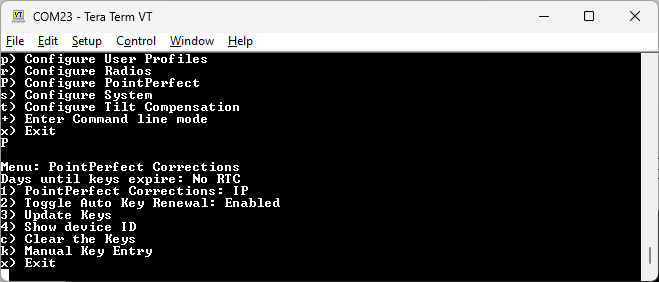
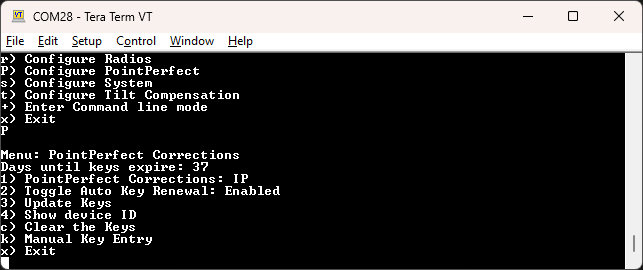
Docs update

Changed region(s): [[0.0, 0.0, 1.0, 1.0], [0.9953, 0.9778, 1.0, 1.0]]

diff --git a/docs/menu_system.md b/docs/menu_system.md
@@ -1,22 +1,99 @@
 # System Menu
 
-Surveyor: ![Feature Supported](img/Icons/GreenDot.png) / Express: ![Feature Supported](img/Icons/GreenDot.png) / Express Plus: ![Feature Supported](img/Icons/GreenDot.png) / Facet: ![Feature Supported](img/Icons/GreenDot.png) / Facet L-Band: ![Feature Supported](img/Icons/GreenDot.png) / Reference Station: ![Feature Supported](img/Icons/GreenDot.png)
+Torch: ![Feature Supported](img/Icons/GreenDot.png) 
+
+![System Menu accessed over serial](<img/Terminal/SparkFun RTK Everywhere - System Menu.png>)
+
+*System Menu accessed over serial*
+
+The System Menu shows a variety of system information including a full system check to verify what is and what is not online. For example, if an SD card is detected it will be shown as online. Not all RTK devices have all hardware options. For example, the RTK Torch does not have an SD slot so its status and configuration will not be shown.
+
+This menu is helpful when reporting technical issues or requesting support as it displays helpful information about the current GNSS firmware version, and which parts of the unit are online.
 
 ## WiFi Interface
 
-Because of the nature of these controls, the AP config page is different than the terminal menu.
+Because of the nature of these controls, the WiFi Config page shows different information than the Serial configuration.
 
-![System Config Menu on WiFi Config Page](img/WiFi Config/SparkFun%20RTK%20WiFi%20Config%20System.png)
+![System Config Menu on WiFi Config Page](<img/WiFi Config/SparkFun%20RTK%20WiFi%20Config%20System.png>)
 
 *System Config Menu on WiFi Config Page*
 
-### Check for New Firmware
+## System Information
 
-This feature allows over-the-air updates of the RTK device's firmware. Please see [Updating RTK Firmware](firmware_update.md) for more information.
+![System Menu Header Information](<img/Terminal/SparkFun RTK Everywhere - System Menu Header.png>)
 
-### System Initial State
+*System Menu Header Information*
 
-At power on, the device will enter either Rover or Base state.
+The header of the system menu contains various system metrics. 
+
+In order of appearance:
+
+* System Date/time
+* Device Mode
+* GNSS status including receiver type and firmware version
+* Unique ID assigned to the GNSS receiver
+* GNSS information including SIV, HPA, Lat/Lon/Alt
+* Battery information (if available)
+* Bluetooth MAC (ending) and status
+* WiFi MAC (full)
+* System Uptime
+* NTRIP Client/Server uptime (if enabled)
+* MQTT Client uptime (if enabled)
+* Parser statistics
+
+## Mode Switch
+
+![System Menu Options serial menu](<img/Terminal/SparkFun RTK Everywhere - System Menu Options.png>)
+
+*System Menu Options serial menu*
+
+The device can be in Rover, Base, or WiFi Config mode. The select mode will be entered once the user exits the menu system.
+
+* **B, R, W, or S** - Change the mode the device is in.
+
+    * **R**over - This is the default mode. The device transmits its NMEA and other messages (if enabled) over Bluetooth. It can receive corrections over Bluetooth (or other transport methods such as NTRIP Client) to achieve RTK Fix.
+    * **B**ase - The device will reconfigure for base mode. It will begin transmitting corrections over Bluetooth, WiFi (NTRIP Server, TCP, etc), or other (ESP-Now, external radio if compatible, etc).
+    * **W**iFi Config - The device will shut down GNSS operations and begin broadcasting as a WiFi Access Point (or will attempt to connect to local WiFi). Once started, the device can be connected to over WiFi for configuration.
+    * **S**hut Down - If available, the device will immediately shut down.
+
+## Settings
+
+![System Menu Options serial menu](<img/Terminal/SparkFun RTK Everywhere - System Menu Options.png>)
+
+*System Menu Options serial menu*
+
+* **a** - On devices that support it, a beeper is used to indicate various system states (system power on/off, tilt compensation in use, etc). This can be disabled if desired.
+
+* **b** - Change the Bluetooth protocol. By default, the RTK device begins dual broadcasting over Bluetooth Classic SPP (Serial Port Profile) **and** Bluetooth Low-Energy (BLE). The following options are available: *Dual*, *Classic*, *BLE*, or *Off*. Bluetooth v2.0 SPP (Serial Port Profile) is supported by nearly all data collectors and Android tablets. BLE is used for configuration and to be compatible with Apple iOS-based devices. Additionally, the Bluetooth radio can be turned off.
+
+* **c** - By default, a device will continue to operate until the battery (if available) is exhausted. If desired, a timeout can be entered: If no charging is detected, the device will power off once this amount of time has expired.
+
+* **d** - Enters the [Debug Software menu](menu_debug_software.md) that is for advanced users.
+
+* **e** - Controls the printing of local characters (also known as 'echoing').
+
+* **f** - If supported, show any files on the microSD card (if present).
+
+* **h** - Enters the [Debug Hardware menu](menu_debug_hardware.md) that is for advanced users.
+
+* **n** - Enters the [Debug Network menu](menu_debug_network.md) that is for advanced users.
+
+* **o** - Enters the [Configure RTK operation menu](menu_debug_rtk_operation.md) that is for advanced users.
+
+* **p** - Enters the [Configure periodic print menu](menu_debug_periodic_print.md) that is for advanced users.
+
+* **r** - Reset all settings to default including a factory reset of the GNSS receiver. This can be helpful if the unit has been configured into an unknown or problematic state. See [Factory Reset](menu_system.md#factory-reset).
+
+* **z** - A local timezone in hours, minutes and seconds may be set by pressing 'z'. The timezone values change the RTC clock setting and the file system's timestamps for new files.
+
+* **~** - If desired, the external button(s) can be disabled to prevent accidental mode changes.
+
+**Note:** Bluetooth SPP cannot operate concurrently with ESP-Now radio transmissions. Therefore, if you plan to use the ESP-Now radio system to connect RTK products, the BLE protocol must be used to communicate over Bluetooth to data collectors. Alternatively, ESP-Now works concurrently with WiFi so connecting to a data collector over WiFi can be used.
+
+
+## SD Settings
+
+On devices that have an SD socket, additional options will be shown to control logging.
 
 ### Log to SD
 
@@ -34,72 +111,21 @@ Every 'max long length' amount of time the current log will be closed and a new 
 
 Pressing the 'Start New Log' button will close the current log. A new log will be opened immediately and the file name will be shown. This can be helpful in the field when a certain set of coordinates or feature marks need to be recorded in close proximity to one another. By dividing up the logs, the work can be more easily identified.
 
-### Bluetooth Protocol
-
-By default, the RTK products use Bluetooth v2.0 SPP (Serial Port Profile) to connect to data collectors. Nearly all data collectors support this protocol. The RTK product line also supports BLE (Bluetooth Low Energy). The BLE protocol has a variety of improvements but very few data collectors support it.
-
-**Note:** Bluetooth SPP cannot operate concurrently with ESP-Now radio transmissions. Therefore, if you plan to use the ESP-Now radio system to connect RTK products, the BLE protocol must be used to communicate over Bluetooth to data collectors. Alternatively, ESP-Now works concurrently with WiFi so connecting to a data collector over WiFi can be used.
-
-### Enable Factory Defaults
-
-See [Factory Reset](menu_system.md#factory-reset).
-
-### SD Card
-
-Various stats for the SD card are shown. 
-
-### Update Firmware
-
-New firmware may be uploaded via WiFi to the unit. See [Updating Firmware from WiFi](firmware_update.md#updating-firmware-from-wifi) for more information.
-
-### Reset Counter
-
-A counter is displayed indicating the number of non-power-on-resets since the last power-on.
-
-## Serial Interface
-
-![System menu](img/Terminal/SparkFun%20RTK%20System%20Menu.png)
-
-*Menu showing various attributes of the system*
-
-The System Status menu will show a large number of system parameters including a full system check to verify what is and what is not online. For example, if an SD card is detected it will be shown as online. Not all systems have all hardware. For example, the RTK Surveyor does not have an accelerometer so it will always be shown offline.
-
-This menu is helpful when reporting technical issues or requesting support as it displays helpful information about the current ZED-F9x firmware version, and which parts of the unit are online.
-
-* **z** - A local timezone in hours, minutes and seconds may be set by pressing 'z'. The timezone values change the RTC clock setting and the file system's timestamps for new files.
-
-* **d** - Enters the [debug menu](menu_debug.md) that is for advanced users.
-
-* **f** - Show any files on the microSD card (if present).
-
-* **b** - Change the Bluetooth protocol. By default, Serial Port Profile (SPP) for Bluetooth v2.0 is used. This can be changed to BLE if desired at which time serial is sent over BLESerial. Additionally, Bluetooth can be turned off. This state is normally used for debugging.
-
-* **r** - Reset all settings to default including a factory reset of the ZED-F9x receiver. This can be helpful if the unit has been configured into an unknown or problematic state.
-
-* **B, R, W, or S** - Change the mode the device is in without needing to press the external SETUP or POWER buttons.
-
-![System Config over WiFi](img/WiFi Config/SparkFun%20RTK%20WiFi%20Config%20System.png)
-
-*System Config over WiFi Config*
-
-The WiFi Config page also allows various aspects of the system to be configured but it is limited by design.
-
 ## Factory Reset
 
 If a device gets into an unknown state it can be returned to default settings using the WiFi or Serial interfaces. 
 
-![Factory Default button](img/WiFi Config/SparkFun%20RTK%20WiFi%20Factory%20Defaults.png)
+![Factory Default button](<img/WiFi Config/SparkFun%20RTK%20WiFi%20Factory%20Defaults.png>)
 
 *Enabling and Starting a Factory Reset*
 
 Factory Defaults will erase any user settings and reset the internal receiver to stock settings. To prevent accidental reset the checkbox must first be checked before the button is pressed. Any logs on SD are maintained. Any settings file and commonly used coordinate files on the SD card associated with the current profile will be removed.
 
-![Issuing a factory reset](img/Terminal/SparkFun%20RTK%20System%20Menu%20-%20Factory%20Reset.png)
-
+![Issuing a factory reset](<img/Terminal/SparkFun RTK Everywhere - System Menu Factory Reset.png>)
 *Issuing and confirming a Factory Reset*
 
-If a device gets into an unknown state it can be returned to default settings. Press 'r' then 'y' to confirm. Factory Default will erase any user settings and reset the internal receiver to stock settings. Any settings file and commonly used coordinate files on the SD card associated with the current profile will be removed.
+If a device gets into an unknown state it can be returned to default settings. Press 'r' then 'y' to confirm. Factory Default will erase any user settings and reset the internal receiver to stock settings. If SD is supported, any settings file and commonly used coordinate files on the SD card associated with the current profile will be removed.
 
 **Note:** Log files and any other files on the SD card are *not* removed or modified.
 
-Note: A factory reset can also be accomplished by editing the settings files. See Force a [Factory Reset](configure_with_settings_file.md#forcing-a-factory-reset) for more information. 
+Note: A factory reset can also be accomplished by editing the settings files. See [Force a Factory Reset](configure_with_settings_file.md#forcing-a-factory-reset) for more information. 

diff --git a/docs/menu_pointperfect.md b/docs/menu_pointperfect.md
@@ -30,25 +30,21 @@ PointPerfect corrections are obtained by two methods:
 
 To gain access to the PointPerfect system, the device must be given WiFi. Once provided, the RTK device will automatically obtain **keys**. These keys allow the decryption of corrections.
 
+PointPerfect keys are valid for a maximum of 56 days. During that time, the RTK device can operate normally without the need to update keys. However, when the keys are set to expire in 28 days or less, the RTK device will attempt to log in to WiFi at each power on. If WiFi is not available, it will continue normal operation. 
 
+On RTK L-Band equipped devices, if the keys fully expire, the device will continue to receive the L-Band signal but will be unable to decrypt the signal. The RTK Facet L-Band will continue to have extraordinary accuracy (we've seen better than 0.15m HPA) but not the centimeter-level accuracy that comes with RTK.
 
-PointPerfect keys are valid for a maximum of 56 days. During that time, the RTK device can operate normally without the need for WiFi access. However, when the keys are set to expire in 28 days or less, the RTK Facet L-Band will attempt to log in to WiFi at each power on. If WiFi is not available, it will continue normal operation. If the keys fully expire, the device will continue to receive the L-Band signal but will be unable to decrypt the signal, disabling high-precision GNSS. The RTK Facet L-Band will continue to have extraordinary accuracy (we've seen better than 0.15m HPA) but not the centimeter-level accuracy that comes with RTK.
-
-**Note:** The RTK Facet L-Band is capable of receiving RTCM corrections over traditional means including NTRIP data over Bluetooth or a serial radio. But the real point of L-Band and PointPerfect is that you can be *anywhere*, without cellular or radio cover, and still enjoy millimeter accuracy.
+**Note:** All RTK devices (including those equipped with L-Band) are capable of receiving RTCM corrections over traditional means including NTRIP data over Bluetooth or a serial radio. 
 
 ![Display showing 14 days until Keys Expire](img/Displays/SparkFun_RTK_LBand_DayToExpire.jpg)
 
 *Display showing 14 days until keys expire*
 
-The unit will display various messages to aid the user in obtaining keys as needed.
+On devices that have a display, the unit will display various prompts to aid the user in obtaining keys as needed.
 
-![Three-pronged satellite dish indicating L-Band reception](img/Displays/SparkFun_RTK_LBand_Indicator.jpg)
+## PointPerfect Serial Menu
 
-*Three pronged satellite dish indicating L-Band reception*
-
-Upon successful reception and decryption of PointPerfect corrections, the satellite dish icon will increase to a three-pronged icon. As the unit's fix increases the cross-hair will indicate a basic 3D solution, a double blinking cross-hair will indicate a floating RTK solution, and a solid double cross-hair will indicate a fixed RTK solution.
-
-![PointPerfect Menu](img/Terminal/SparkFun%20RTK%20PointPerfect%20Menu.png)
+![PointPerfect Menu](<img/Terminal/SparkFun RTK Everywhere - PointPerfect Menu.png>)
 
 *PointPerfect Menu*
 
@@ -58,13 +54,31 @@ The *Days until keys expire* inform the user how many days the unit has until it
 
 * Option '2' disables the automatic attempts at WiFi connections when key expiry is less than 28 days.
 
-* Option '3' will trigger an immediate attempt to connect over WiFi and update the keys.
+* Option '3' will trigger an immediate attempt to connect over WiFi and provision the device (if no keys are available) or update the keys (if provisioning has already been completed).
 
-* Option '4' will display the Device ID. This is needed when a SparkFun RTK Facet L-Band product needs to be added to the PointPerfect system. This is normally taken care of when you purchase the L-Band unit with PointPerfect service added, but for customers who wish to extend their subscription beyond the initial year, or did not purchase the service and want to add it at a later date, this Device ID is what customer service needs.
+* Option '4' will display the Device ID. This is needed when a SparkFun RTK device needs to be added to the PointPerfect system. This is normally taken care of when you purchase a product that includes a PointPerfect subscription. But for customers who wish to extend their subscription beyond the initial year, or did not purchase the service and want to add it at a later date, this Device ID is what customer service needs.
+
+* Option 'c' will clear the current keys.
 
 * Option 'k' will bring up the Manual Key Entry menu.
 
-![Manual Key Entry menu](img/Terminal/SparkFun_RTK_LBand_ManualKeysA.jpg)
+## Obtaining the Device ID
+
+The device ID is unique to each RTK device and must be entered by SparkFun into the PointPerfect network (also known as whitelisting). 
+
+![Device ID within the serial menu](<SparkFun RTK Everywhere - PointPerfect Menu Device ID.png>)
+
+*Device ID within the serial menu*
+
+![Device ID within the WiFi Config page](<img/WiFi Config/SparkFun RTK PointPerfect Config.png>)
+
+*Device ID within the WiFi Config page*
+
+This ID can be obtained by using option **4** from the *PointPerfect* menu or by opening the PointPerfect section within the [WiFi Config](https://docs.sparkfun.com/SparkFun_RTK_Everywhere_Firmware/configure_with_wifi/) interface in the PointPerfect Configuration section.
+
+## Manual Key Entry
+
+![Manual Key Entry menu](<img/Terminal/SparkFun RTK Everywhere - PointPerfect Menu Manual Key Entry.png>)
 
 *Manual Key Entry Menu*
 
@@ -72,3 +86,36 @@ Because of the length and complexity of the keys, we do not recommend you manual
 
 Option '1' will allow a user to enter their Device Profile Token. This is the token that is used to provision a device on a PointPerfect account. By default, users may use the SparkFun token but must pay SparkFun for the annual service fee. If an organization would like to administer its own devices, the token can be changed here.
 
+## L-Band Decryption Icon
+
+![Three-pronged satellite dish indicating L-Band reception](img/Displays/SparkFun_RTK_LBand_Indicator.jpg)
+
+*Three-pronged satellite dish indicating L-Band reception*
+
+On devices that have a display, upon successful reception and decryption of PointPerfect corrections delivered over L-Band, the satellite dish icon will increase to a three-pronged icon. As the unit's fix increases the cross-hair will indicate a basic 3D solution, a double blinking cross-hair will indicate a floating RTK solution, and a solid double cross-hair will indicate a fixed RTK solution.
+
+## Error Messages
+
+There are various messages that may be reported by the device. Here is a list of explanations and resolutions.
+
+### No SSIDs
+
+    Error: Please enter at least one SSID before getting keys
+
+This message is seen when no WiFi network credentials (SSID and password) have been entered. The device needs WiFi to obtain the keys to decrypt the packets provided by PointPerfect. Enter your home/office/cellular hotspot WiFi SSID and password and try again.
+
+### Not Whitelisted
+
+    This device is not whitelisted. Please contact support@sparkfun.com to get your subscription activated. Please reference device ID: [device ID]
+
+This message is seen whenever the PointPerfect service is not aware of the given device. Please contact support@sparkfun.com with your device ID (see 'Obtaining the Device ID' above).
+
+### Device Deactivated
+
+    This device has been deactivated. Please contact support@sparkfun.com to renew the PointPerfect subscription. Please reference device ID: [device ID]
+
+This message is seen whenever the device's subscription has lapsed. Please contact support@sparkfun.com with your device ID (see 'Obtaining the Device ID' above).
+
+### HTTP response error -11 - Read Timeout
+
+The connection to PointPerfect did not respond. Please try again or try a different WiFi network or access point (AP).

diff --git a/docs/connecting_bluetooth.md b/docs/connecting_bluetooth.md
@@ -4,6 +4,8 @@ Torch: ![Feature Supported](img/Icons/GreenDot.png)
 
 SparkFun RTK devices transmit full NMEA sentences over Bluetooth serial port profile (SPP) at 2Hz and 115200bps. This means that nearly any GIS application that can receive NMEA data over a serial port (almost all do) can be used with SparkFun RTK devices. As long as your end system can open a serial port over Bluetooth (also known as SPP) your system can retrieve industry-standard NMEA positional data. The following steps show how to connect an external tablet, or cell phone to the RTK device so that any serial port-based GIS application can be used.
 
+**Note**: BLE is also supported and can be used in place of Bluetooth SPP. See [Bluetooth Protocols](https://docs.sparkfun.com/SparkFun_RTK_Everywhere_Firmware/menu_system/#bluetooth-protocol) for more information.
+
 ## Android
 
 ![List of Bluetooth devices on Android](<img/QuickStart/SparkFun Torch - Available Devices.png>)

diff --git a/docs/menu_firmware.md b/docs/menu_firmware.md
@@ -8,5 +8,5 @@ Torch: ![Feature Supported](img/Icons/GreenDot.png)
 
 From time to time SparkFun will release new firmware for the RTK product line to add and improve functionality. For most users, firmware can be upgraded over WiFi using the [OTA method](https://docs.sparkfun.com/SparkFun_RTK_Firmware/firmware_update/#updating-firmware-over-the-air).
 
-The Firmware Update menu allows users to check for and install updates. Turning on *Automatic firmware updates* will cause the device to periodically check and install update when they become available. This can be helpful for remote stations that cannot have manual interventions.
+The Firmware Update menu allows users to check for and install updates. Turning on *Automatic firmware updates* will cause the device to periodically check and install updates when they become available. This can be helpful for remote stations that cannot have manual interventions.
 

diff --git a/docs/configure_with_wifi.md b/docs/configure_with_wifi.md
@@ -17,13 +17,13 @@ During WiFi configuration, the RTK device will present a webpage that is viewabl
 
 To get into WiFi configuration follow these steps:
 
-1. Power on the RTK Express, Express Plus, or Facet.
-2. Once the device has started press the Setup button repeatedly until the *Config* menu is highlighted.
-3. The display will blink a WiFi icon indicating it is waiting for incoming connections.
+1. Power on the RTK Torch
+2. Once the device has started press the Power Button twice within 1 second (double tap).
+3. The display will beep twice indicating it is waiting for incoming connections.
 4. Connect to WiFi network named ‘RTK Config’.
 5. Open a browser (Chrome is preferred) and type **192.168.4.1** into the address bar.
 
-![Display showing IP address](img/Displays/SparkFun_RTK_Facet_-_Display_WiFi_Config.jpg)
+![Display showing IP address]()
 
 *Device ready for cellphone configuration*
 

diff --git a/docs/menu_debug_periodic_print.md b/docs/menu_debug_periodic_print.md
@@ -1,0 +1,5 @@
+# Configure Periodic Print Menu
+
+Torch: ![Feature Supported](img/Icons/GreenDot.png)
+
+TODO

diff --git a/docs/menu_debug_rtk_operation.md b/docs/menu_debug_rtk_operation.md
@@ -1,0 +1,5 @@
+# Configure RTK Operation Menu
+
+Torch: ![Feature Supported](img/Icons/GreenDot.png) 
+
+TODO

diff --git a/docs/menu_debug_hardware.md b/docs/menu_debug_hardware.md
@@ -1,0 +1,5 @@
+# Debug Hardware Menu
+
+Torch: ![Feature Supported](img/Icons/GreenDot.png) 
+
+TODO

diff --git a/docs/menu_debug_software.md b/docs/menu_debug_software.md
@@ -1,0 +1,5 @@
+# Debug Software Menu
+
+Torch: ![Feature Supported](img/Icons/GreenDot.png) 
+
+TODO

diff --git a/docs/menu_debug_network.md b/docs/menu_debug_network.md
@@ -1,0 +1,5 @@
+# Debug Network Menu
+
+Torch: ![Feature Supported](img/Icons/GreenDot.png)
+
+TODO
